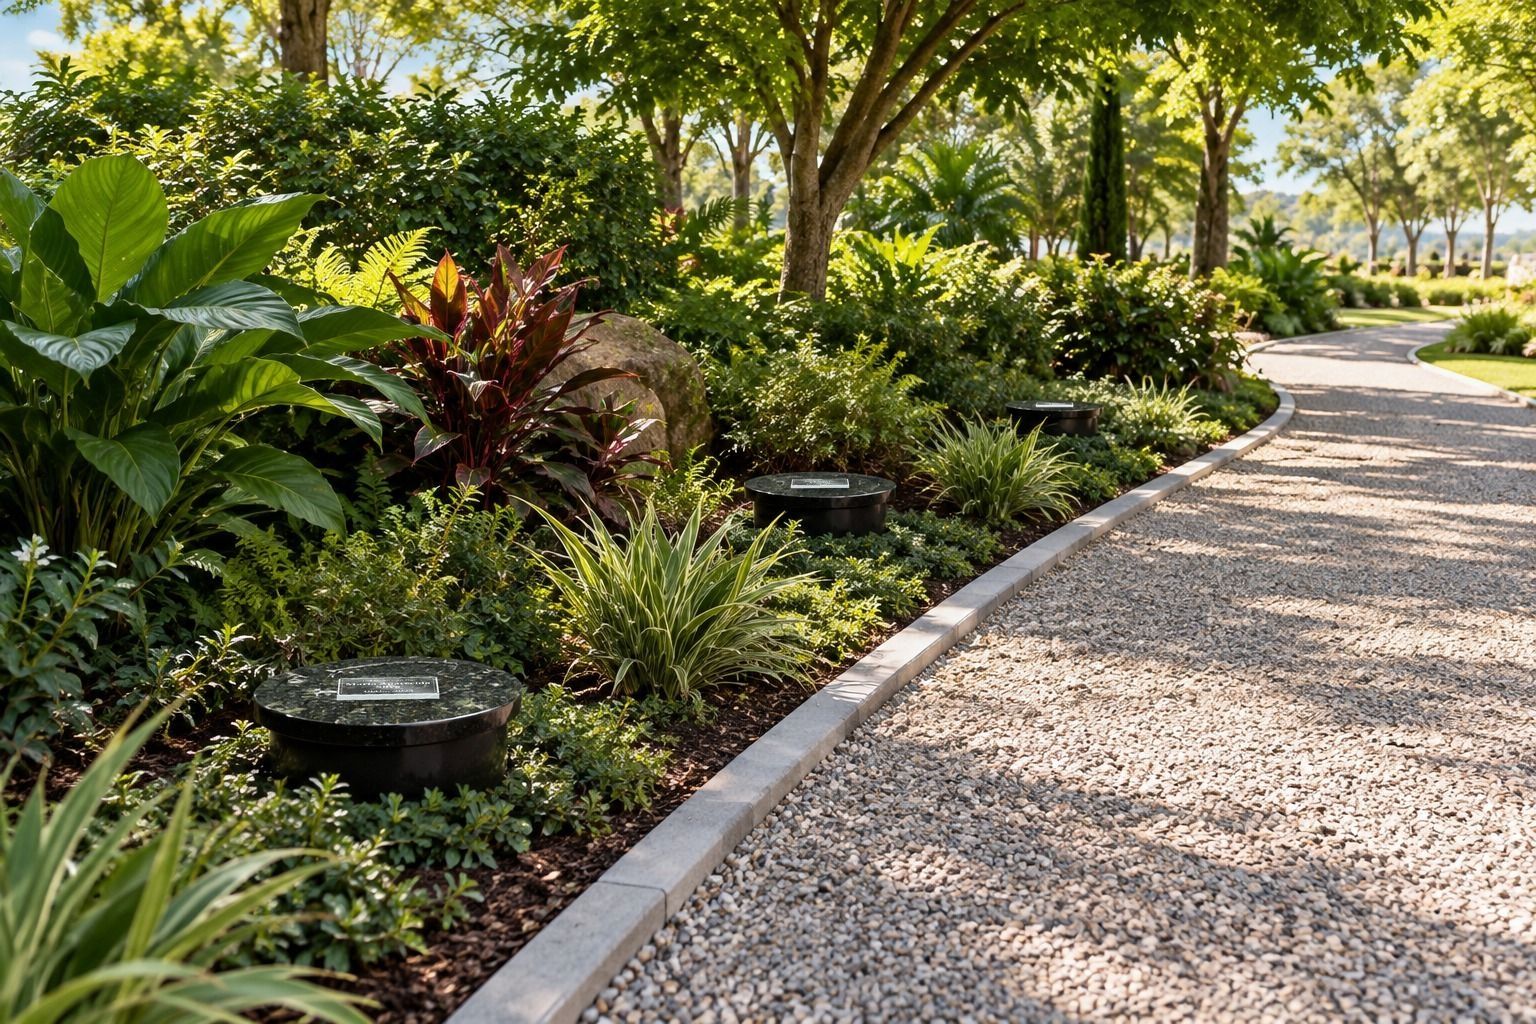
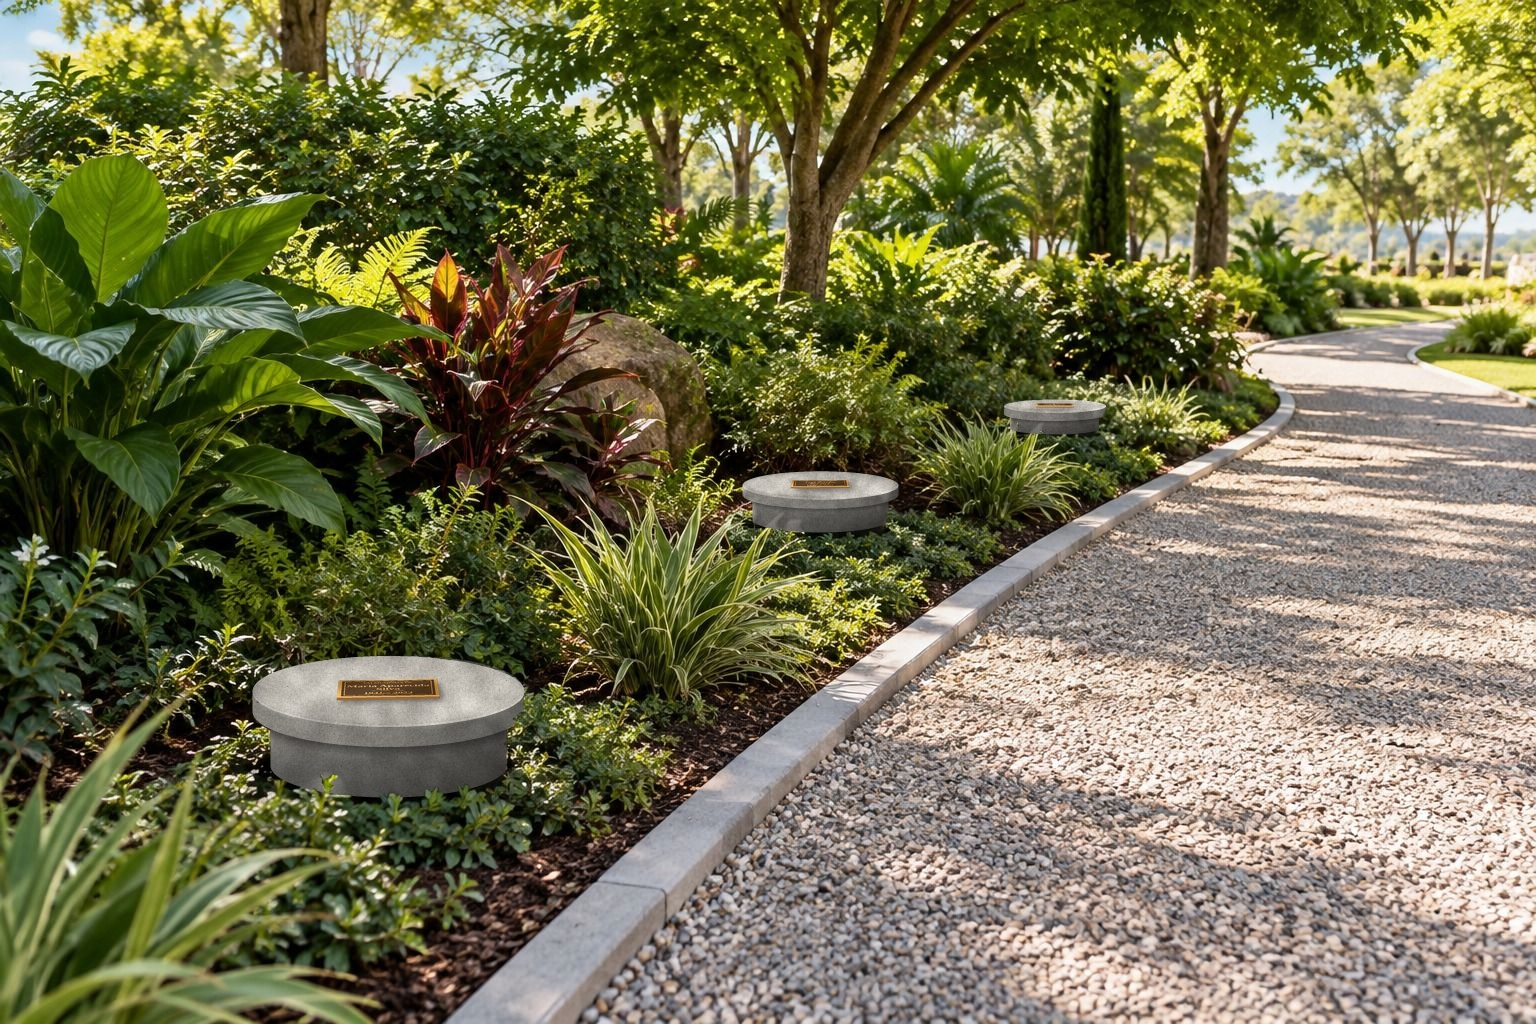
Cilindros em concreto e placas memoriais em bronze
Claude-Session: https://claude.ai/code/session_01UW9wU3zD7SpHL9d4rhsFFK

Changed region(s): [[0.1562, 0.625, 0.3438, 0.7812], [0.4688, 0.4375, 0.5938, 0.5312], [0.6562, 0.375, 0.7188, 0.4375]]

diff --git a/gerar_placas_memorial.py b/gerar_placas_memorial.py
@@ -1,4 +1,5 @@
-"""Insere placas de acrílico 15x10 cm, centralizadas, sobre as tampas de granito.
+"""Troca os cilindros de granito por concreto e insere placas de bronze 15x10 cm,
+centralizadas sobre as tampas, como placas de memorialização.
 
 Uso:
     pip install pillow numpy
@@ -14,73 +15,183 @@ FONTE_NOME = "/usr/share/fonts/truetype/liberation/LiberationSerif-Bold.ttf"
 FONTE_TEXTO = "/usr/share/fonts/truetype/liberation/LiberationSerif-Regular.ttf"
 FONTE_ITALICO = "/usr/share/fonts/truetype/liberation/LiberationSerif-Italic.ttf"
 
-# Diâmetro real assumido da tampa de granito (cm) — define a escala da placa.
+# Diâmetro real assumido da tampa (cm) — define a escala da placa.
 DIAMETRO_TAMPA_CM = 40.0
 PLACA_CM = (15.0, 10.0)
-ESPESSURA_CM = 1.0  # acrílico 5 mm + espaçadores
+ESPESSURA_CM = 0.6  # placa de bronze fundido
 
-# Elipse do topo de cada tampa na foto: centro (x, y), semi-eixos (a, b), inclinação (graus)
+# Geometria de cada cilindro na foto:
+#   centro/a/b/rot: elipse do topo da tampa (px, graus)
+#   aba: altura da borda lateral da tampa (px)
+#   corpo_a / corpo_base: meia-largura e base (y) do corpo abaixo da tampa (px)
 TAMPAS = [
     {"centro": (388, 691), "a": 134, "b": 34, "rot": -1.0,
+     "aba": 20, "corpo_a": 118, "corpo_base": 797,
      "nome": "Maria Aparecida Silva", "datas": "1941 – 2023"},
     {"centro": (820, 485), "a": 76, "b": 12.7, "rot": -0.5,
+     "aba": 9, "corpo_a": 68, "corpo_base": 532,
      "nome": "José Carlos Pereira", "datas": "1938 – 2021"},
     {"centro": (1054.6, 405.7), "a": 49, "b": 5.3, "rot": 0.0,
+     "aba": 8, "corpo_a": 44, "corpo_base": 434,
      "nome": "Ana Beatriz Souza", "datas": "1952 – 2024"},
 ]
 
 TEX_W, TEX_H = 1500, 1000  # textura 15x10 cm a 100 px/cm
 SS = 4  # supersampling
 
+CONCRETO = np.array([186.0, 182.0, 174.0])  # cinza concreto aparente
 
-def textura_placa(nome, datas):
-    """Acrílico cristal com cantos arredondados e texto gravado (fosco branco)."""
-    tex = Image.new("RGBA", (TEX_W, TEX_H), (0, 0, 0, 0))
-    mask = Image.new("L", (TEX_W, TEX_H), 0)
-    ImageDraw.Draw(mask).rounded_rectangle([0, 0, TEX_W - 1, TEX_H - 1], 70, fill=255)
 
-    # Corpo do acrílico: leve tom branco translúcido + brilho diagonal
-    yy, xx = np.mgrid[0:TEX_H, 0:TEX_W]
-    brilho = np.clip(1.0 - np.abs((xx / TEX_W) - (yy / TEX_H) * 0.6 - 0.25) * 3.0, 0, 1)
-    alpha = 55 + 90 * brilho
-    corpo = np.dstack([
-        np.full_like(alpha, 235), np.full_like(alpha, 242), np.full_like(alpha, 245), alpha,
-    ]).astype(np.uint8)
-    tex = Image.fromarray(corpo, "RGBA")
+# --------------------------------------------------------------------------- concreto
 
-    d = ImageDraw.Draw(tex)
-    # Borda polida (bisel) brilhante
-    d.rounded_rectangle([6, 6, TEX_W - 7, TEX_H - 7], 66, outline=(255, 255, 255, 230), width=22)
-    d.rounded_rectangle([60, 60, TEX_W - 61, TEX_H - 61], 40, outline=(250, 250, 250, 170), width=8)
+def mascaras_cilindro(t, shape, ss=1):
+    """Máscaras booleanas (topo, aba, corpo) do cilindro, numa grade ss vezes mais fina."""
+    h, w = shape
+    yy, xx = (np.mgrid[0:h * ss, 0:w * ss].astype(float) + 0.5) / ss - 0.5
+    cx, cy = t["centro"]
+    a, b, aba = t["a"] + 2, t["b"] + 1.5, t["aba"]
+    topo = ((xx - cx) / a) ** 2 + ((yy - cy) / b) ** 2 <= 1
+    arco = cy + b * np.sqrt(np.clip(1 - ((xx - cx) / a) ** 2, 0, None))
+    aba_m = (np.abs(xx - cx) <= a) & (yy >= cy) & (yy <= arco + aba) & ~topo
+    ca = t["corpo_a"]
+    base = t["corpo_base"] - 0.9 * b * (1 - np.sqrt(np.clip(1 - ((xx - cx) / ca) ** 2, 0, None)))
+    corpo = (np.abs(xx - cx) <= ca) & (yy >= cy) & (yy <= base) & ~topo & ~aba_m
+    return topo, aba_m, corpo, xx, yy
 
-    texto = (250, 250, 250, 255)
-    f_topo = ImageFont.truetype(FONTE_TEXTO, 95)
-    f_nome = ImageFont.truetype(FONTE_NOME, 200)
-    f_datas = ImageFont.truetype(FONTE_TEXTO, 150)
-    f_rodape = ImageFont.truetype(FONTE_ITALICO, 105)
 
-    # Quebra o nome em duas linhas se não couber
+def cobertura(m, ss):
+    """Reduz uma máscara supersampled para cobertura fracionária (anti-aliasing)."""
+    h, w = m.shape[0] // ss, m.shape[1] // ss
+    return m.reshape(h, ss, w, ss).mean(axis=(1, 3))
+
+
+def ruido(shape, sigma, rng):
+    img = Image.fromarray((rng.random(shape) * 255).astype(np.uint8))
+    if sigma > 0:
+        img = img.filter(ImageFilter.GaussianBlur(sigma))
+    r = np.asarray(img, dtype=float)
+    return (r - r.mean()) / (r.std() + 1e-6)
+
+
+def aplicar_concreto(img, t, rng, ss=4):
+    """Substitui o granito do cilindro por concreto, preservando luz e folhagem à frente."""
+    cx, cy = t["centro"]
+    x0, x1 = int(cx - t["a"] - 6), int(cx + t["a"] + 7)
+    y0, y1 = int(cy - t["b"] - 6), int(t["corpo_base"] + 6)
+    arr = img[y0:y1, x0:x1].astype(float)
+    h, w, _ = arr.shape
+    loc = dict(t, centro=(cx - x0, cy - y0), corpo_base=t["corpo_base"] - y0)
+    topo, aba, corpo, xx, yy = mascaras_cilindro(loc, (h, w), ss)
+
+    # Sombreamento por região (calculado na grade fina e depois reduzido)
+    u = np.clip((xx - loc["centro"][0]) / t["a"], -1, 1)
+    lateral = 0.78 - 0.18 * u - 0.10 * u ** 2  # luz do fundo-esquerda
+    arco = loc["centro"][1] + t["b"] * np.sqrt(np.clip(1 - u ** 2, 0, None)) + t["aba"]
+    sob_aba = 0.62 + 0.38 * np.clip((yy - arco) / max(2.0, t["aba"] * 0.6), 0, 1)
+    base = loc["corpo_base"]
+    chao = 1 - 0.25 * np.clip((yy - (base - 2.5 * t["aba"])) / (2.5 * t["aba"]), 0, 1)
+    tom_ss = np.where(topo, 1.0, 0.0) + np.where(aba, lateral, 0.0) \
+        + np.where(corpo, lateral * 0.80 * sob_aba * chao, 0.0)
+    regiao_ss = topo | aba | corpo
+    cob = cobertura(regiao_ss, ss)
+    tom = cobertura(tom_ss, ss) / np.maximum(cob, 1e-6)
+    cob_topo = cobertura(topo, ss)
+    # Leve chanfro iluminado na borda entre topo e aba
+    borda = cobertura(topo & ~np.roll(topo, -2 * ss, axis=0), ss)
+
+    r, g, b = arr[..., 0], arr[..., 1], arr[..., 2]
+    lum = 0.299 * r + 0.587 * g + 0.114 * b
+    # Folhagem na frente do cilindro (verde, mais clara que o granito) fica intacta
+    folha = (g > r * 1.05) & (g > b * 1.02) & (lum > 40) & (g - np.minimum(r, b) > 8)
+    folha &= cob_topo < 0.5
+    folha = np.asarray(Image.fromarray((folha * 255).astype(np.uint8))
+                       .filter(ImageFilter.MedianFilter(3)).filter(ImageFilter.GaussianBlur(0.5)),
+                       float) / 255.0
+
+    # Luz difusa local (manchas de sol/sombra das árvores), sem os grãos do granito
+    luz = np.asarray(Image.fromarray(np.clip(lum, 0, 255).astype(np.uint8))
+                     .filter(ImageFilter.GaussianBlur(max(2.0, t["b"] / 6))), float)
+    ref = np.median(luz[cob_topo > 0.99])
+    mod = np.clip(luz / (ref + 1e-6), 0.6, 1.5) ** 0.35
+
+    # Textura de concreto: grão fino + manchas suaves + poros
+    escala = max(0.5, t["a"] / 134)
+    textura = 5.5 * ruido((h, w), 0.6, rng) + 7.0 * ruido((h, w), 6 * escala, rng)
+    poros = (rng.random((h, w)) < 0.004 * escala) * -28.0
+
+    novo = CONCRETO[None, None, :] * (tom * mod)[..., None]
+    novo += ((textura + poros) * tom)[..., None]
+    novo += (borda * 18)[..., None]
+
+    alfa = (cob * (1 - folha))[..., None]
+    saida = img.copy()
+    saida[y0:y1, x0:x1] = np.clip(arr * (1 - alfa) + np.clip(novo, 0, 255) * alfa, 0, 255)
+    return saida
+
+
+# --------------------------------------------------------------------------- placa de bronze
+
+def textura_placa(nome, datas, rng):
+    """Bronze fundido: fundo com pátina escura, letras e moldura em relevo polidas."""
+    yy, xx = np.mgrid[0:TEX_H, 0:TEX_W].astype(float)
+
+    # Fundo rebaixado: pátina marrom escura com textura jateada
+    grao = ruido((TEX_H, TEX_W), 1.2, rng)
+    fundo = np.dstack([
+        78 + 7 * grao, 52 + 5 * grao, 28 + 3 * grao,
+    ])
+
+    # Relevo (moldura + texto) desenhado como máscara
+    relevo = Image.new("L", (TEX_W, TEX_H), 0)
+    d = ImageDraw.Draw(relevo)
+    d.rounded_rectangle([0, 0, TEX_W - 1, TEX_H - 1], 40, outline=255, width=55)
+    d.rounded_rectangle([95, 95, TEX_W - 96, TEX_H - 96], 20, outline=255, width=12)
+
+    f_topo = ImageFont.truetype(FONTE_TEXTO, 92)
+    f_nome = ImageFont.truetype(FONTE_NOME, 195)
+    f_datas = ImageFont.truetype(FONTE_NOME, 145)
+    f_rodape = ImageFont.truetype(FONTE_ITALICO, 100)
+
     linhas = [nome]
-    if d.textlength(nome, font=f_nome) > TEX_W - 220:
+    if d.textlength(nome, font=f_nome) > TEX_W - 260:
         partes = nome.split()
         meio = (len(partes) + 1) // 2
         linhas = [" ".join(partes[:meio]), " ".join(partes[meio:])]
-        f_nome = ImageFont.truetype(FONTE_NOME, 175)
+        f_nome = ImageFont.truetype(FONTE_NOME, 170)
 
     cx = TEX_W / 2
-    y = 120
-    d.text((cx, y), "EM MEMÓRIA DE", font=f_topo, fill=texto, anchor="ma")
-    y += 150
+    y = 140
+    d.text((cx, y), "EM MEMÓRIA DE", font=f_topo, fill=255, anchor="ma")
+    y += 140
     for linha in linhas:
-        d.text((cx, y), linha, font=f_nome, fill=texto, anchor="ma")
-        y += 190
-    y += 25
-    d.line([(cx - 260, y), (cx + 260, y)], fill=texto, width=8)
-    y += 45
-    d.text((cx, y), datas, font=f_datas, fill=texto, anchor="ma")
-    d.text((cx, TEX_H - 110), "Saudades eternas", font=f_rodape, fill=texto, anchor="md")
+        d.text((cx, y), linha, font=f_nome, fill=255, anchor="ma")
+        y += 180
+    y += 20
+    d.line([(cx - 240, y), (cx + 240, y)], fill=255, width=10)
+    y += 40
+    d.text((cx, y), datas, font=f_datas, fill=255, anchor="ma")
+    d.text((cx, TEX_H - 130), "Saudades eternas", font=f_rodape, fill=255, anchor="md")
 
-    tex.putalpha(Image.fromarray(np.minimum(np.array(tex.getchannel("A")), np.array(mask))))
+    m = np.asarray(relevo, float) / 255.0
+    # Bisel do relevo: luz vinda de cima-esquerda
+    alt = np.asarray(relevo.filter(ImageFilter.GaussianBlur(4)), float) / 255.0
+    gy, gx = np.gradient(alt)
+    bisel = np.clip(-(gx + gy) * 6, -1, 1)
+
+    # Bronze polido com brilho metálico diagonal
+    brilho = np.clip(1 - np.abs(xx / TEX_W * 0.8 + yy / TEX_H * 0.5 - 0.55) * 2.2, 0, 1)
+    polido = np.dstack([
+        176 + 60 * brilho, 128 + 52 * brilho, 62 + 34 * brilho,
+    ])
+    cor = fundo * (1 - m[..., None]) + polido * m[..., None]
+    cor += (bisel * 55)[..., None]
+    # Reflexo suave em toda a peça
+    cor += (brilho * 18)[..., None]
+
+    mask = Image.new("L", (TEX_W, TEX_H), 0)
+    ImageDraw.Draw(mask).rounded_rectangle([0, 0, TEX_W - 1, TEX_H - 1], 40, fill=255)
+    tex = Image.fromarray(np.clip(cor, 0, 255).astype(np.uint8), "RGB").convert("RGBA")
+    tex.putalpha(mask)
     return tex
 
 
@@ -111,8 +222,8 @@ def quad_na_tampa(t, dy=0.0):
     return pts
 
 
-def colar_placa(base, t):
-    tex = textura_placa(t["nome"], t["datas"])
+def colar_placa(base, t, rng):
+    tex = textura_placa(t["nome"], t["datas"], rng)
     esp_px = ESPESSURA_CM * t["a"] / (DIAMETRO_TAMPA_CM / 2) * 0.75  # escala vertical ~75% da horizontal
     esp_px = max(1.0, min(esp_px, 6.0))
     topo = quad_na_tampa(t, dy=-esp_px)
@@ -128,28 +239,27 @@ def colar_placa(base, t):
         return [((x - x0) * SS, (y - y0) * SS) for x, y in pts]
 
     camada = Image.new("RGBA", (w, h), (0, 0, 0, 0))
-    d = ImageDraw.Draw(camada)
 
-    # Sombra suave projetada (sol vindo do fundo/esquerda)
+    # Sombra suave projetada sobre o concreto
     sombra = Image.new("L", (w, h), 0)
     desloc = [(x + 3 * SS, y + 2 * SS) for x, y in local(chao)]
-    ImageDraw.Draw(sombra).polygon(desloc, fill=150)
+    ImageDraw.Draw(sombra).polygon(desloc, fill=120)
     sombra = sombra.filter(ImageFilter.GaussianBlur(2.5 * SS))
-    camada = Image.composite(Image.new("RGBA", (w, h), (5, 8, 6, 255)), camada, sombra)
+    camada = Image.composite(Image.new("RGBA", (w, h), (40, 36, 30, 255)), camada, sombra)
     d = ImageDraw.Draw(camada)
 
-    # Espessura: faces laterais visíveis (frente e lado direito)
+    # Espessura: faces laterais em bronze (frente e lado direito)
     lt, lc = local(topo), local(chao)
-    d.polygon([lt[3], lt[2], lc[2], lc[3]], fill=(225, 238, 240, 215))
-    d.polygon([lt[1], lt[2], lc[2], lc[1]], fill=(190, 205, 208, 190))
+    d.polygon([lt[3], lt[2], lc[2], lc[3]], fill=(150, 100, 48, 255))
+    d.polygon([lt[1], lt[2], lc[2], lc[1]], fill=(105, 68, 32, 255))
 
-    # Face superior com o texto
+    # Face superior com o texto em relevo
     src = [(0, 0), (TEX_W, 0), (TEX_W, TEX_H), (0, TEX_H)]
     face = tex.transform((w, h), Image.PERSPECTIVE, tuple(coef_perspectiva(lt, src)),
                          Image.BICUBIC)
     camada = Image.alpha_composite(camada, face)
     # Aresta frontal polida reflete o sol
-    ImageDraw.Draw(camada).line([lt[3], lt[2]], fill=(255, 255, 255, 235), width=max(2, SS))
+    ImageDraw.Draw(camada).line([lt[3], lt[2]], fill=(235, 190, 120, 230), width=max(2, SS))
 
     camada = camada.resize((x1 - x0, y1 - y0), Image.LANCZOS)
     base.alpha_composite(camada, (x0, y0))
@@ -161,9 +271,13 @@ def main():
     ap.add_argument("--saida", default="salida/jardin_placas_memorial.jpg")
     args = ap.parse_args()
 
-    base = Image.open(args.entrada).convert("RGBA")
+    rng = np.random.default_rng(7)
+    arr = np.asarray(Image.open(args.entrada).convert("RGB"))
     for t in TAMPAS:
-        colar_placa(base, t)
+        arr = aplicar_concreto(arr, t, rng)
+    base = Image.fromarray(arr).convert("RGBA")
+    for t in TAMPAS:
+        colar_placa(base, t, rng)
     base.convert("RGB").save(args.saida, quality=95)
     print(f"Imagem gerada: {args.saida}")
 

diff --git a/README.md b/README.md
@@ -25,6 +25,7 @@ pip install pillow numpy
 python gerar_placas_memorial.py
 ```
 
-Insere placas de acrílico cristal de 15×10 cm, centralizadas sobre as tampas de granito da foto
-`insumos/jardin_tampas_granito.jpg`, com texto gravado ("Em memória de", nome, datas). Resultado em
-`salida/jardin_placas_memorial.jpg`. Nomes, datas e posição das tampas ficam na lista `TAMPAS` do script.
+Troca os cilindros de granito da foto `insumos/jardin_tampas_granito.jpg` por cilindros de concreto
+aparente (mantendo a luz do ambiente e a folhagem na frente) e insere placas de bronze fundido de 15×10 cm,
+centralizadas sobre as tampas, com moldura e texto em relevo ("Em memória de", nome, datas). Resultado em
+`salida/jardin_placas_memorial.jpg`. Nomes, datas e geometria dos cilindros ficam na lista `TAMPAS` do script.
